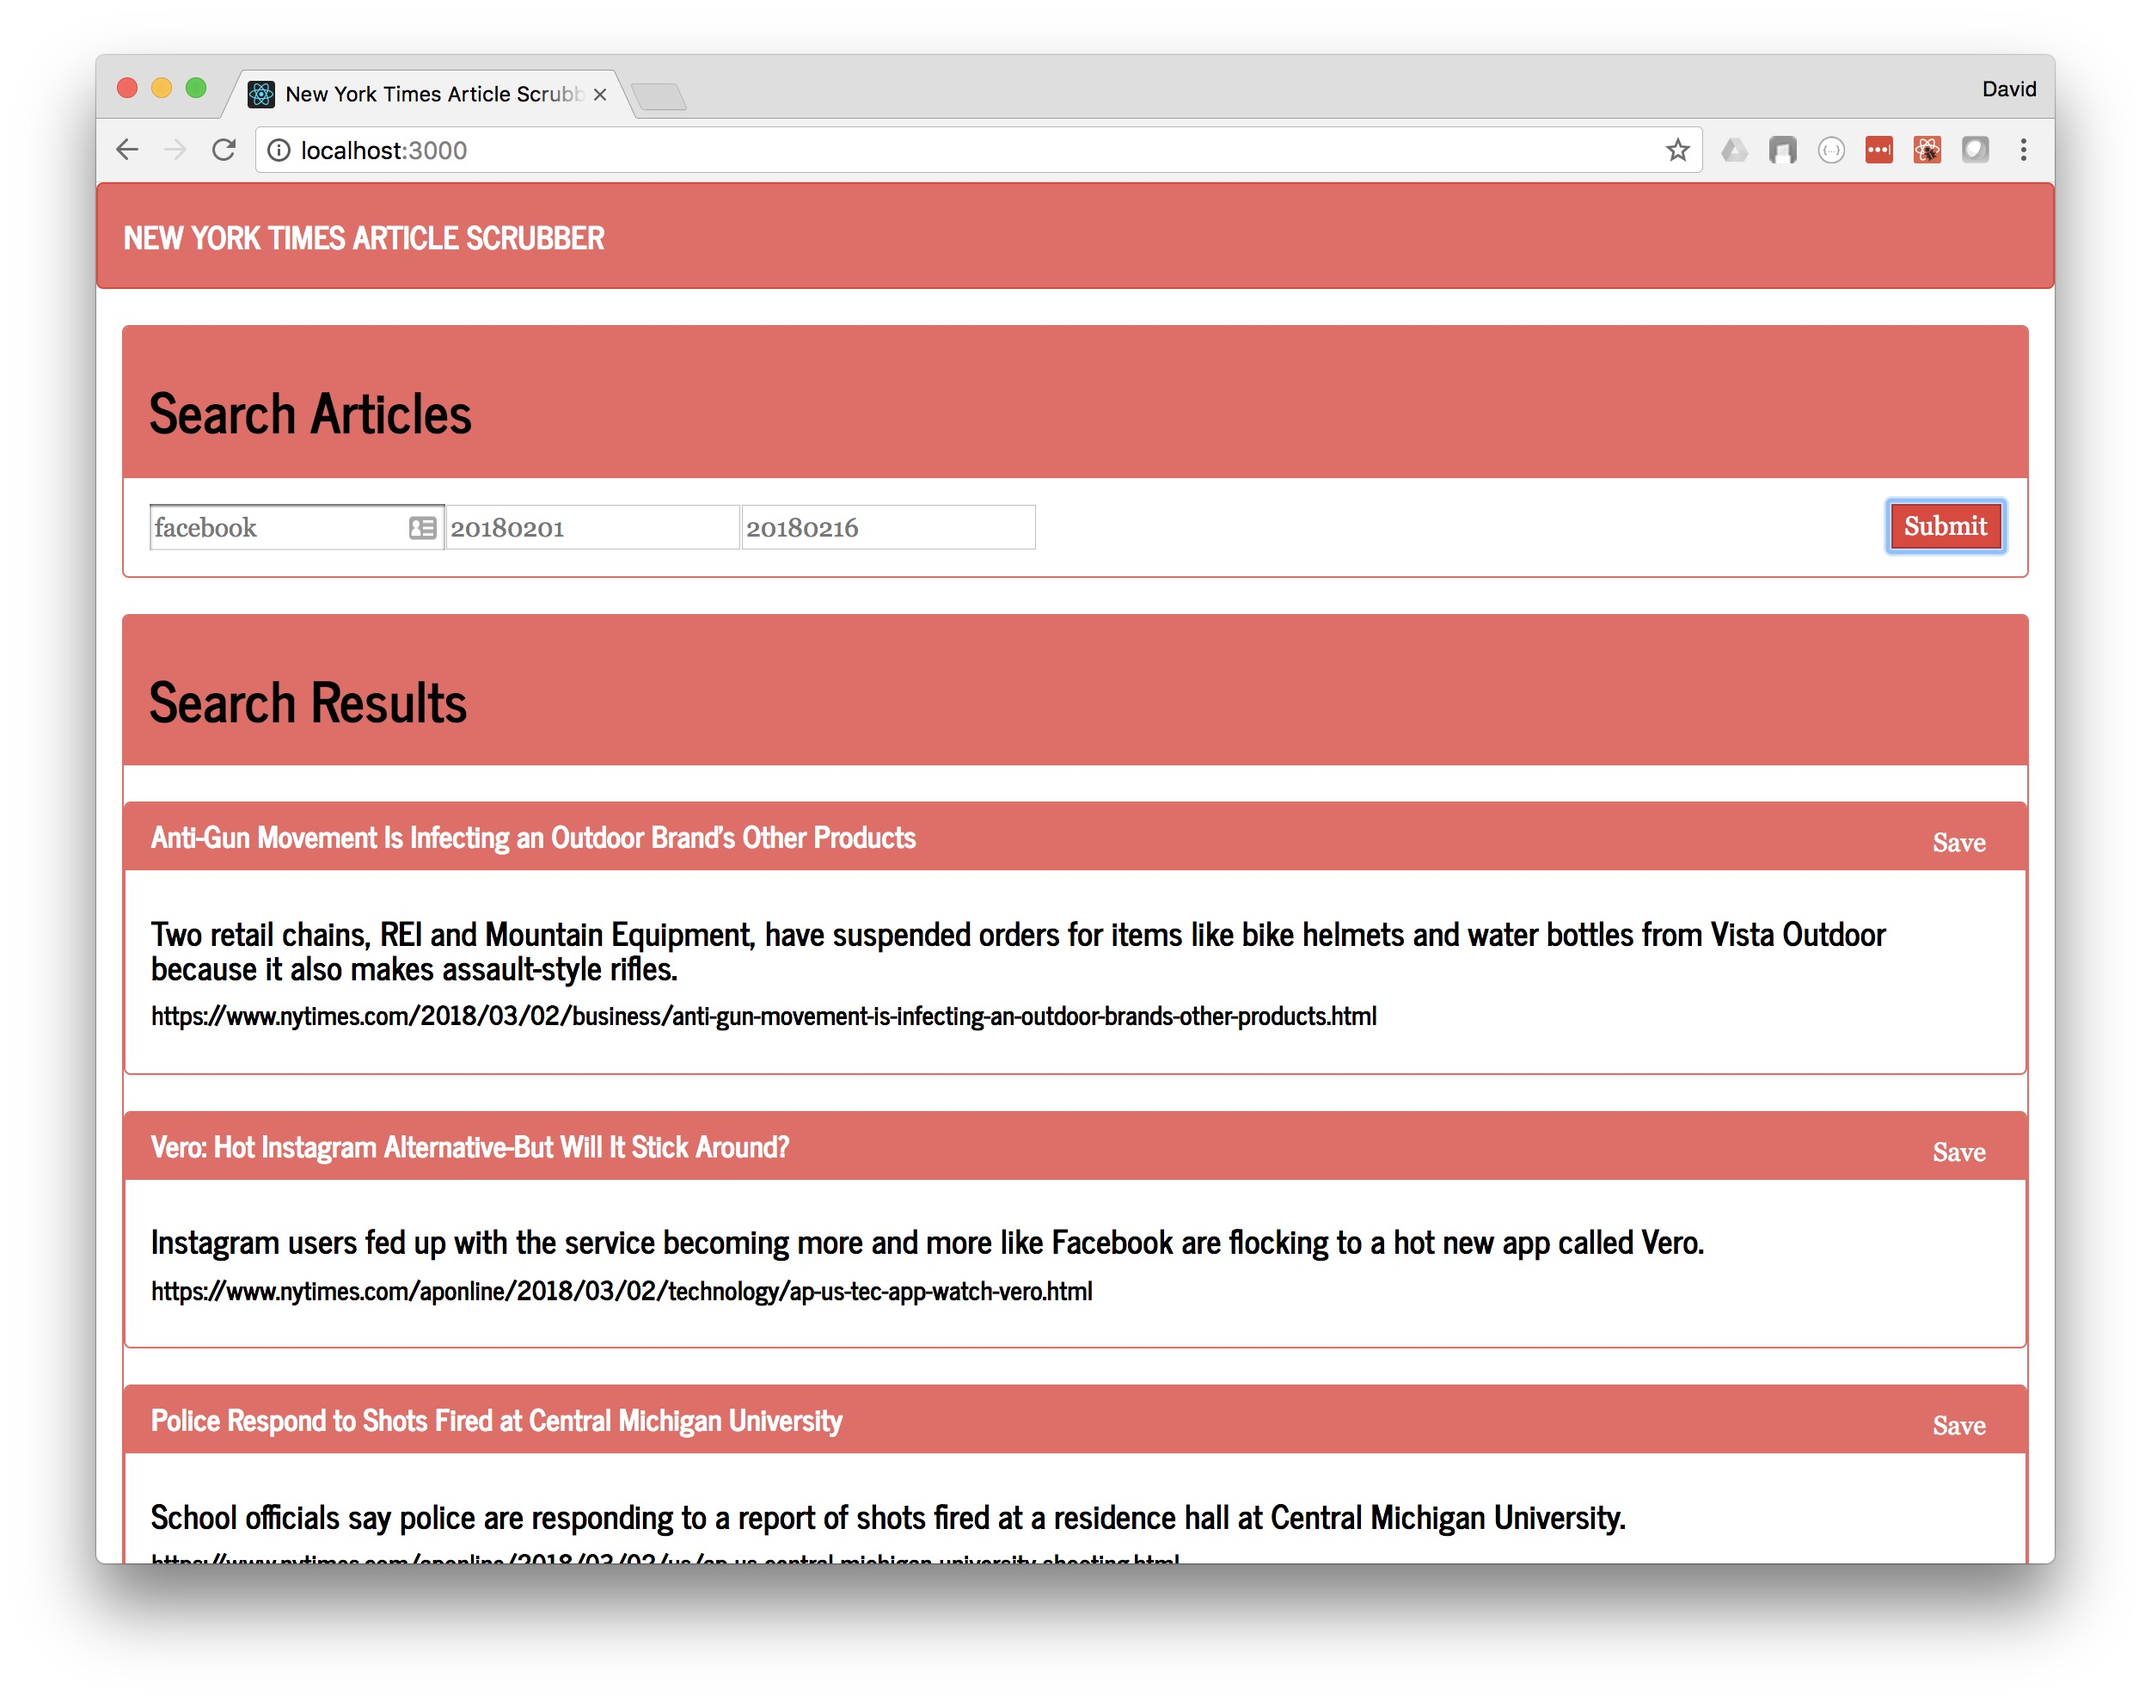
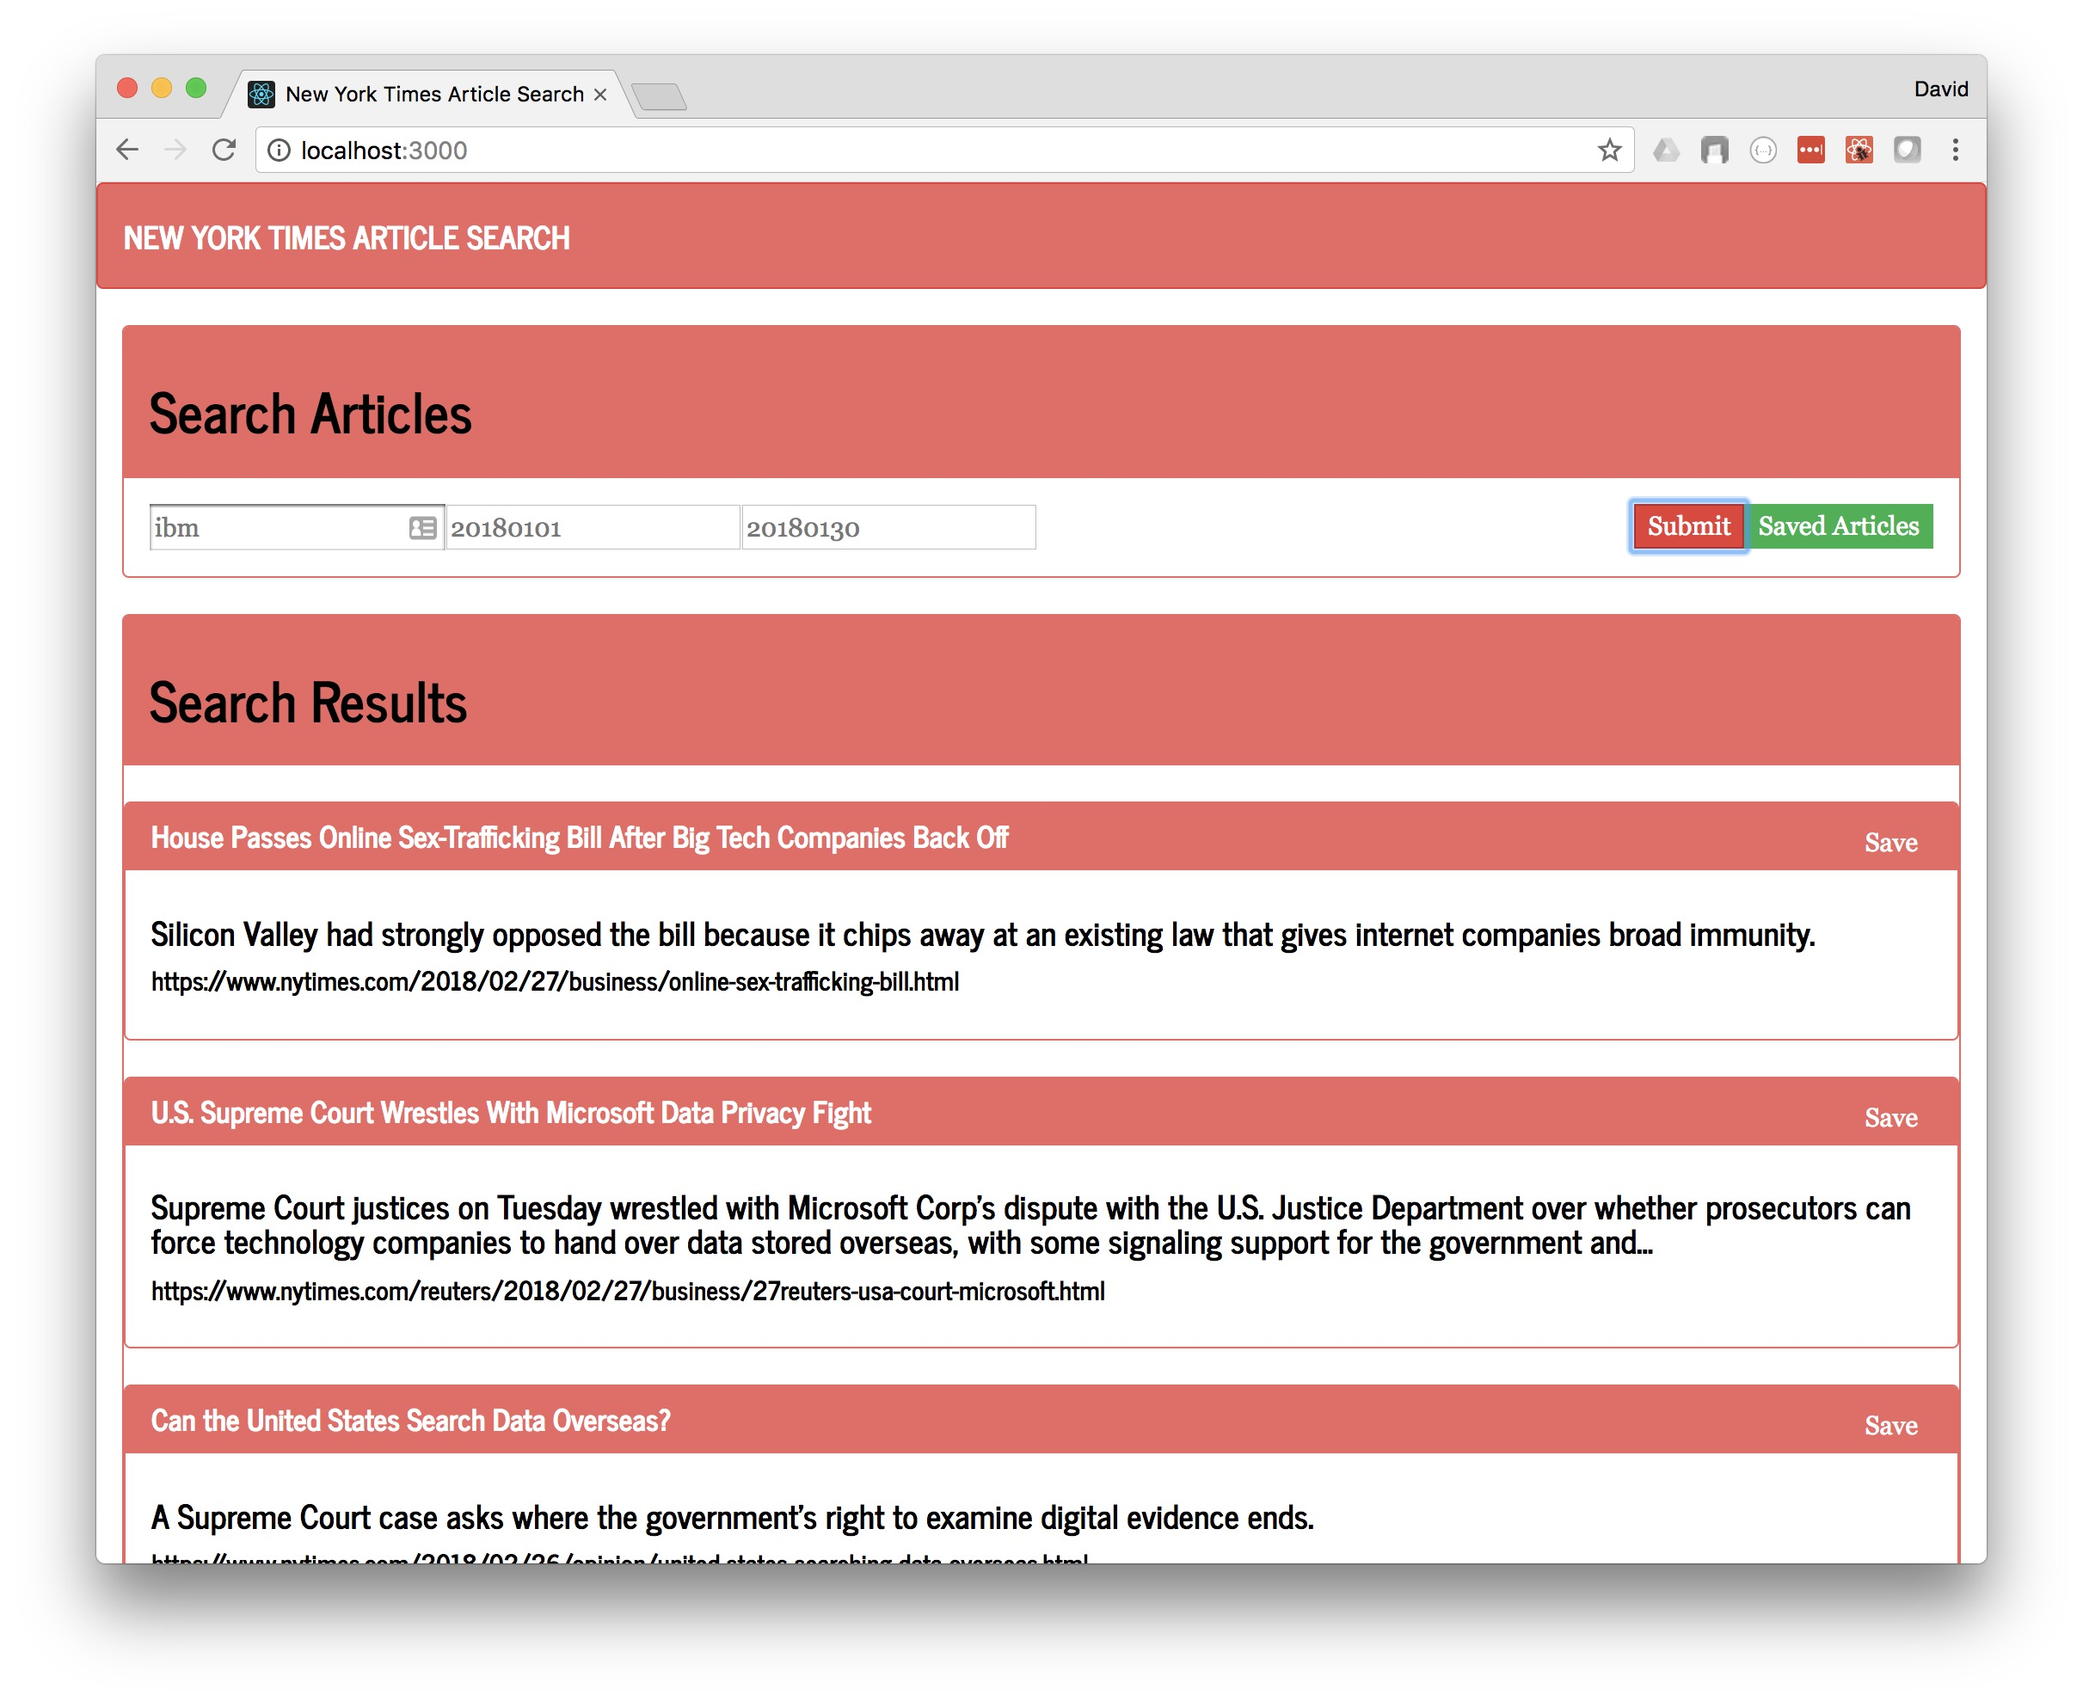
holy smokes now the saved searches works

diff --git a/client/src/pages/Home/Home.js b/client/src/pages/Home/Home.js
@@ -1,9 +1,7 @@
 import React, { Component } from "react";
+import {withRouter} from "react-router-dom";
 import API from "../../utils/API";
-// import { Link } from "react-router-dom";
 import { Col, Row, Container } from "../../components/Grid";
-// import { List, ListItem } from "../../components/List";
-// import { Input, TextArea, FormBtn } from "../../components/Form";
 
 class Home extends Component {
   state = {
@@ -11,56 +9,12 @@ class Home extends Component {
     begin_date: "",
     end_date: "",
     topic: "",
-    // are headline, snippet, pub_date, url in "articles[], above?"
-    // articles[0].response.docs[].headline.main
-    // articles[0].response.docs[].snippet
-    // articles[0].response.docs[].pub_date,
-    // articles[0].response.docs[].web_url
-    // headline: "",
-    // snippet: "",
-    // pub_date: "",
-    // url: ""
   };
 
   componentDidMount() {
-    // don't want to do anything?  
+    // don't want to do anything? No, I don't think so. 
     // this.loadArticles();
   }
-
-//   loadArticles = () => {
-//     API.getArticles()
-//       .then(res =>
-//         // this is where I have to define objects in the article[] array
-//         this.setState({ articles: res.data, title: "", date: "", url: "" })
-//       )
-//       .catch(err => console.log(err));
-//   };
-
-//   seachForArticles = () => {
-//     const searchData = {
-//         topic:      this.state.topic,
-//         begin_date: this.state.begin_date,
-//         end_date:   this.state.end_date    
-//     }
-//     API.searchArticles()
-//       .then(res =>
-//         // this is where I have to define objects in the article[] array, right?
-//         // do I have the format correct below?  res.data.docs[]??
-//         this.setState({ 
-//             articles: res.data,
-//             headline: res.data.docs[].headline.main,
-//             pub_date: "",
-//             snippet: "",
-//             url: "" })
-//       )
-//       .catch(err => console.log(err));
-//   };
-
-//   unsaveArticle = id => {
-//     API.deleteArticle(id)
-//       .then(res => this.loadArticles())
-//       .catch(err => console.log(err));
-//   };
 
   handleInputChange = event => {
     const { name, value } = event.target;
@@ -88,13 +42,6 @@ class Home extends Component {
 
 
   handleSaveClicked = event => {
-    // if ((this.state.topic && this.state.begin_date && this.state.end_date)) {
-    console.log("This is the event headline passed: " + event.headline);
-    console.log("This is the snippet headline passed: " + event.snippet);
-    console.log("This is the pub_date headline passed: " + event.pub_date);
-    console.log("This is the url headline passed: " + event.url);
-    console.log("This is the saved_date headline passed: " + new Date().toLocaleString());
-
         API.saveArticle({
         headline: event.headline,
         snippet:  event.snippet,
@@ -102,8 +49,7 @@ class Home extends Component {
         url:      event.url,
         saved_date: new Date().toLocaleString()
     })
-    // After save, do nothing
-        // .then(res => this.loadArticles())
+    // After save, need to add UI handling to inform user that the article was saved
         .then(res => {
             // this.setState({ isSaved: true })
             console.log("SEND TO API CONFIRMED")
@@ -111,6 +57,10 @@ class Home extends Component {
         .catch(err => console.log(err));
     // }
   };
+
+  handleSavedArticles = () => {
+    this.props.history.push("/articles");
+}
 
   render() {
       console.log(this.state.articles);
@@ -127,10 +77,12 @@ class Home extends Component {
                     <form>
                     <input value={this.state.topic} onChange={this.handleInputChange} name="topic" placeholder="Topic"></input> 
 
-                    <input value={this.state.begin_date} onChange={this.handleInputChange} name="begin_date" placeholder="Start - YYYYMMDD"></input> 
+                    <input value={this.state.begin_date} onChange={this.handleInputChange} name="begin_date" placeholder="Start: YYYYMMDD"></input> 
 
-                    <input value={this.state.end_date} onChange={this.handleInputChange} name="end_date" placeholder="End - YYYYMMDD"></input> 
+                    <input value={this.state.end_date} onChange={this.handleInputChange} name="end_date" placeholder="End: YYYYMMDD"></input> 
                     
+                    <button onClick={this.handleSavedArticles} className="btn-success pull-right">Saved Articles</button>
+
                     <button onClick={this.handleFormSubmit} disabled={!(this.state.topic && this.state.begin_date && this.state.end_date)} className="btn-primary pull-right">Submit</button>
                     </form>
                 </div>
@@ -164,28 +116,11 @@ class Home extends Component {
                             <h5>{singleArticle.web_url}</h5>
                         </div>    
 
-                        {/* <LetterBox onClick={() => {davidsOnCLick({headline: singleArticle.headline, pubDate: singleArticle.pubDate})}}/> */}
                     </div>
                     )
                 })}
-                {/* {this.state.articles.length ? (
-                <List>
-                    {this.state.articles.map(article => (
-                    <ListItem key={article._id}>
-                        <Link to={"/article/" + article._id}>
-                        <strong>
-                            {article.title} by {article.date}
-                        </strong>
-                        </Link>
-                        <DeleteBtn onClick={() => this.unsaveArticle(article._id)} />
-                    </ListItem>
-                    ))}
-                </List>
-                ) : (
-                <h3>No Results to Display</h3>
-                )} */}
-            </div>
 
+            </div>
 
           </Col>
         </Row>
@@ -198,4 +133,3 @@ export default Home;
 
 
 
-// })}} className="btn-primary pull-right" {this.state.isSaved? disabled: null}>{ this.state.isSaved? Saved : Save}</button>

diff --git a/client/src/pages/Saved/Saved.js b/client/src/pages/Saved/Saved.js
@@ -1,9 +1,7 @@
 import React, { Component } from "react";
 import API from "../../utils/API";
-// import { Link } from "react-router-dom";
 import { Col, Row, Container } from "../../components/Grid";
 import { List, ListItem } from "../../components/List";
-// import { Input, TextArea, FormBtn } from "../../components/Form";
 
 class Saved extends Component {
   state = {
@@ -32,31 +30,7 @@ class Saved extends Component {
       .catch(err => console.log(err));
   };
 
-//   seachForArticles = () => {
-//     const searchData = {
-//         topic:      this.state.topic,
-//         begin_date: this.state.begin_date,
-//         end_date:   this.state.end_date    
-//     }
-//     API.searchArticles()
-//       .then(res =>
-//         // this is where I have to define objects in the article[] array, right?
-//         // do I have the format correct below?  res.data.docs[]??
-//         this.setState({ 
-//             articles: res.data,
-//             headline: res.data.docs[].headline.main,
-//             pub_date: "",
-//             snippet: "",
-//             url: "" })
-//       )
-//       .catch(err => console.log(err));
-//   };
-
-//   unsaveArticle = id => {
-//     API.deleteArticle(id)
-//       .then(res => this.loadArticles())
-//       .catch(err => console.log(err));
-//   };
+//  
 
   handleInputChange = event => {
     const { name, value } = event.target;
@@ -82,18 +56,12 @@ class Saved extends Component {
     }
   };
 
-
   handleDeleteClicked = id => {
-    // if ((this.state.topic && this.state.begin_date && this.state.end_date)) {
     console.log("This is the event headline passed: " + id);
 
         API.deleteArticle(id)
-    // After save, do nothing
+    // After save, re-load articles
         .then(res => this.loadArticles())
-        // .then(res => {
-        //     // this.setState({ isSaved: true })
-        //     console.log("SEND TO API CONFIRMED")
-        // })
         .catch(err => console.log(err));
     // }
   };
@@ -102,27 +70,6 @@ class Saved extends Component {
       console.log(this.state.articles);
     return (
       <Container fluid>
-        {/* <Row>
-          <Col size="md-12">
-            <div className="panel panel-primary">
-                <div className="panel-heading">
-                    <h2>Saved Articles</h2>
-                </div>
-
-                <div className="panel-body">
-                    <form>
-                    <input value={this.state.topic} onChange={this.handleInputChange} name="topic" placeholder="Topic"></input> 
-
-                    <input value={this.state.begin_date} onChange={this.handleInputChange} name="begin_date" placeholder="Start - YYYYMMDD"></input> 
-
-                    <input value={this.state.end_date} onChange={this.handleInputChange} name="end_date" placeholder="End - YYYYMMDD"></input> 
-                    
-                    <button onClick={this.handleFormSubmit} disabled={!(this.state.topic && this.state.begin_date && this.state.end_date)} className="btn-primary pull-right">Submit</button>
-                    </form>
-                </div>
-            </div>
-          </Col>
-        </Row> */}
 
         <Row>
           <Col size="md-12">
@@ -144,28 +91,10 @@ class Saved extends Component {
                             <h5>{singleArticle.url}</h5>
                             <h5>Date Published: {singleArticle.pub_date}</h5>
                         </div>    
-
-                        {/* <LetterBox onClick={() => {davidsOnCLick({headline: singleArticle.headline, pubDate: singleArticle.pubDate})}}/> */}
                     </div>
                     )
                 })}
 
-                {/* {this.state.articles.length ? (
-                <List>
-                    {this.state.articles.map(article => (
-                    <ListItem key={article._id}>
-                        <Link to={"/article/" + article._id}>
-                        <strong>
-                            {article.title} by {article.date}
-                        </strong>
-                        </Link>
-                        <DeleteBtn onClick={() => this.unsaveArticle(article._id)} />
-                    </ListItem>
-                    ))}
-                </List>
-                ) : (
-                <h3>No Results to Display</h3>
-                )} */}
             </div>
 
 
@@ -178,6 +107,3 @@ class Saved extends Component {
 
 export default Saved;
 
-
-
-// })}} className="btn-primary pull-right" {this.state.isSaved? disabled: null}>{ this.state.isSaved? Saved : Save}</button>

diff --git a/README.md b/README.md
@@ -1,7 +1,7 @@
 # nytreact
 "nyreact" is a New York Times article search and personalized news clipping app.
 
-The app searches article content for keywords, over a specified period of time (begin and end dates) and lists the top 10 articles that match.  The user has the option of saving or "clipping" the article which saves them in a datastore, which can be accessed via the "Saved Searches" tab.
+The app searches article content for keywords, over a specified period of time (begin and end dates) and lists the top 10 articles that match.  The user has the option of saving or "clipping" the article which saves them in a datastore, which can be accessed via the green "Saved Searches" button in the "Search Articles" panel.  To return back to the "Search Articles" panel (from the "Saved Searches" page), click on the "New York Times Article Search" nav header in the upper left.
 
 ## Description
 This application is built using React, Node.js Express, Bootstrap v3.  It runs in the browser on localhost:3000 or is hosted on Heroku [here](https://arcane-anchorage-79289.herokuapp.com/).
@@ -9,7 +9,9 @@ This application is built using React, Node.js Express, Bootstrap v3.  It runs i
 ## nyreact Interface
 After invoking yarn start (node server.js), a broswer window will open with the following address  (localhost:3000), and the user will be able to do a custom search.  After which, they will presented with the following results search screen.
 
-Main screen of nyreact
+Yes, I know, the red is ugly and work is needed to clean things up!!  LOL!!
+
+**Main screen of nyreact**
 ![Main Screen 1](./client/public/nyreact.jpeg)
 
 
